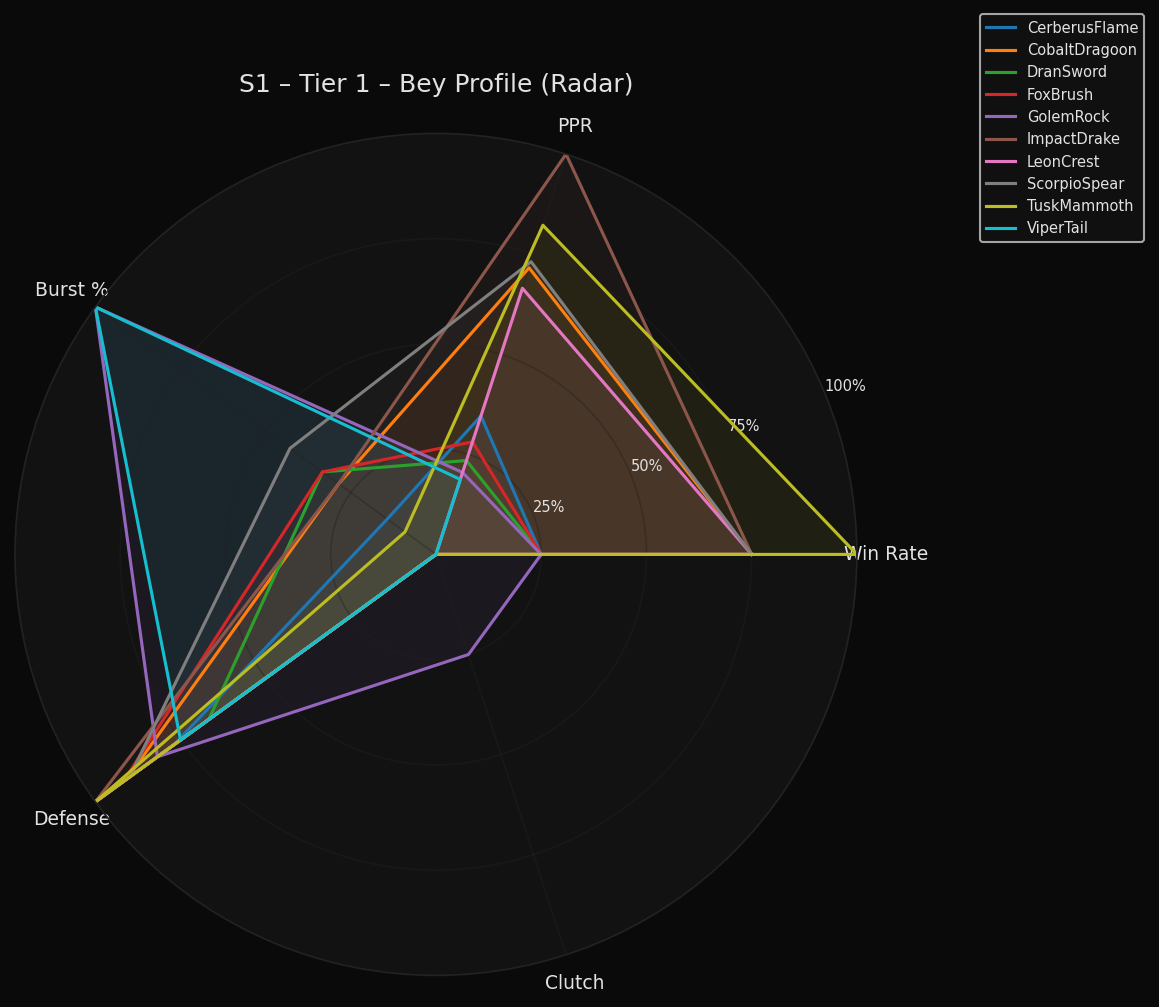
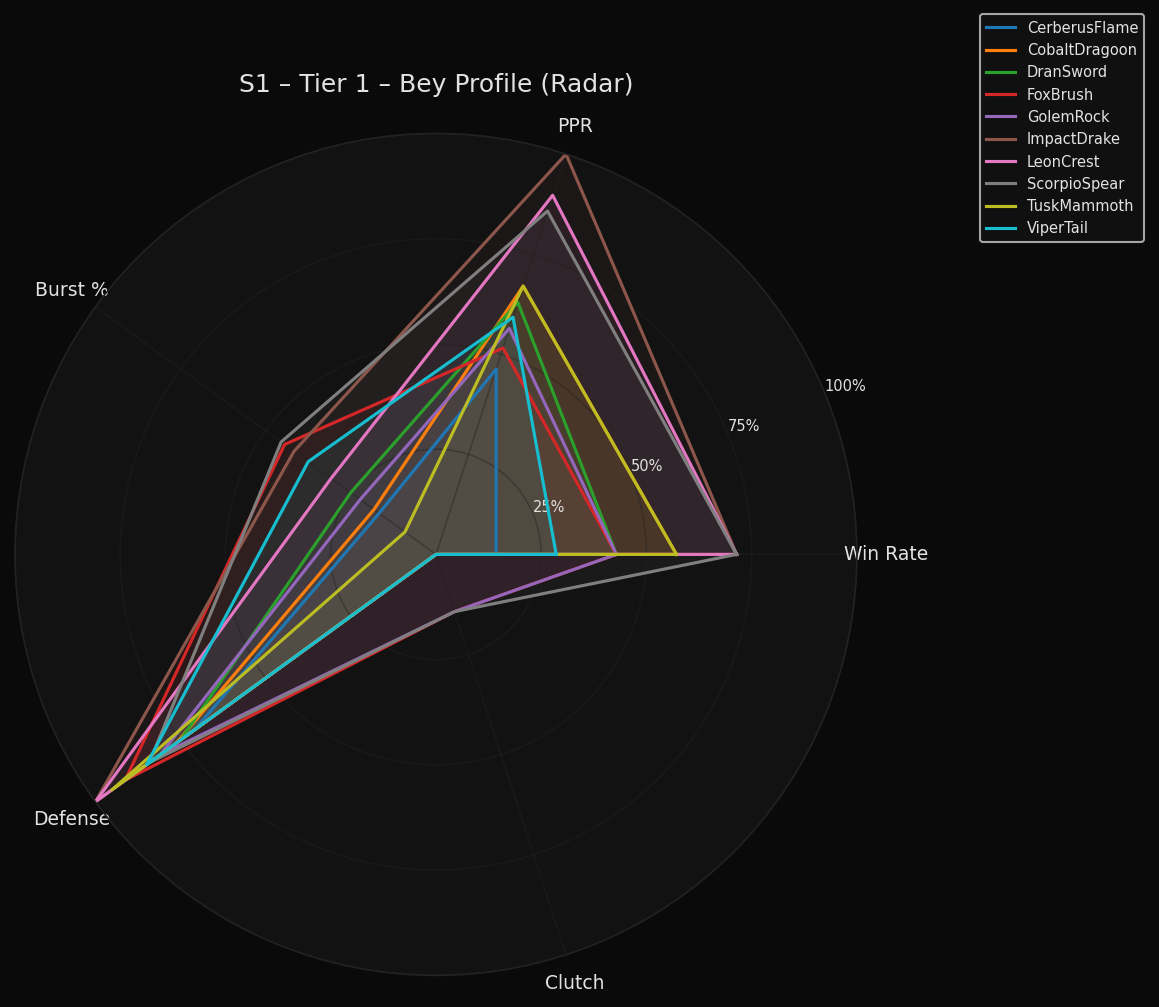
feat: add combined all-tiers plots and All Tiers tab in frontend

Changed region(s): [[0.0621, 0.1539, 0.7455, 0.8004], [0.6523, 0.4618, 0.6833, 0.4926]]

diff --git a/docs/season-stats.html b/docs/season-stats.html
@@ -936,9 +936,12 @@
     const PLOT_TITLES = {
         'bump_chart': '📊 Position Progression (Bump Chart)',
         'cumulative_points': '📈 Cumulative Season Points',
+        'finish_distribution_all_tiers': '🎯 Finish Type Distribution (All Tiers)',
         'finish_distribution': '🎯 Finish Type Distribution',
         'h2h_matrix': '🔥 Head-to-Head Win Rate Matrix',
+        'points_per_match_all_tiers': '📦 Points Per Match Distribution (All Tiers)',
         'points_per_match': '📦 Points Per Match Distribution',
+        'radar_chart_all_tiers': '🕸 Bey Profile Radar (All Tiers)',
         'radar_chart': '🕸 Bey Profile (Radar Chart)',
     };
 
@@ -978,10 +981,13 @@
                 return;
             }
 
-            // Build tier tabs
-            tierSelector.innerHTML = tiers.map((t, i) => `
+            // Build tier tabs (individual tiers + "All Tiers" combined tab)
+            const allTabs = tiers.map((t, i) => `
                 <button class="tier-tab ${i === 0 ? 'active' : ''}" data-tier="${t}">Tier ${t}</button>
-            `).join('');
+            `).join('') + (plotsManifest.combined
+                ? `<button class="tier-tab" data-tier="combined">🌐 All Tiers</button>`
+                : '');
+            tierSelector.innerHTML = allTabs;
 
             tierSelector.querySelectorAll('.tier-tab').forEach(btn => {
                 btn.addEventListener('click', () => {
@@ -1007,7 +1013,9 @@
         currentTier = tier;
         const plotsGrid = document.getElementById('plotsGrid');
         const dark = isDarkMode();
-        const tierData = plotsManifest && plotsManifest.tiers[tier];
+        const tierData = plotsManifest && (
+            tier === 'combined' ? plotsManifest.combined : plotsManifest.tiers[tier]
+        );
 
         if (!tierData) {
             plotsGrid.innerHTML = '<div class="plots-error">No plots available for this tier.</div>';
@@ -1015,7 +1023,9 @@
         }
 
         const plots = dark ? tierData.dark_plots : tierData.plots;
-        const basePath = `plots/season/${season}/tier${tier}/`;
+        const basePath = tier === 'combined'
+            ? `plots/season/${season}/combined/`
+            : `plots/season/${season}/tier${tier}/`;
 
         plotsGrid.innerHTML = plots.map(filename => {
             const title = getPlotTitle(filename);

diff --git a/src/visualization/season_plots.py b/src/visualization/season_plots.py
@@ -510,6 +510,233 @@ def plot_radar_chart(season_stats_json, tier_beys, tier, outdir, season_id, dark
 
 
 # ---------------------------------------------------------------------------
+# Combined (all-tiers) plots
+# ---------------------------------------------------------------------------
+
+def plot_combined_finish_distribution(season_matches, season_rounds, tiers, outdir, season_id, dark_mode=False):
+    """
+    Stacked bar chart of finish-type wins for every bey across all tiers.
+    Beys are grouped by tier with vertical dividers.
+    """
+    if dark_mode:
+        configure_dark_mode()
+    else:
+        configure_light_mode()
+
+    finish_types = list(FINISH_COLORS.keys())
+
+    all_beys = []
+    tier_boundaries = []  # x-index where each tier starts
+    bey_tier_labels = []
+
+    for tier in sorted(tiers):
+        tier_int = int(tier)
+        t_beys = sorted(
+            set(season_matches[season_matches["Tier"] == tier]["BeyA"])
+            | set(season_matches[season_matches["Tier"] == tier]["BeyB"])
+        )
+        tier_boundaries.append((len(all_beys), tier_int, len(t_beys)))
+        all_beys.extend(t_beys)
+        bey_tier_labels.extend([tier_int] * len(t_beys))
+
+    if not all_beys:
+        return
+
+    all_match_ids = set(season_matches["MatchID"])
+    all_rounds = season_rounds[season_rounds["match_id"].isin(all_match_ids)].copy()
+
+    data: dict = {ft: [] for ft in finish_types}
+    for bey in all_beys:
+        bey_wins = all_rounds[all_rounds["winner"] == bey]
+        for ft in finish_types:
+            data[ft].append(len(bey_wins[bey_wins["finish_type"] == ft]))
+
+    fig, ax = plt.subplots(figsize=(max(10, len(all_beys) * 0.75), 6))
+
+    bottom = np.zeros(len(all_beys))
+    x = np.arange(len(all_beys))
+    for ft in finish_types:
+        values = np.array(data[ft])
+        ax.bar(x, values, bottom=bottom, label=ft.capitalize(),
+               color=FINISH_COLORS[ft], alpha=0.85)
+        bottom += values
+
+    # Tier dividers and labels
+    for start_idx, tier_int, size in tier_boundaries:
+        if start_idx > 0:
+            ax.axvline(start_idx - 0.5, color="gray", linewidth=1.2, linestyle="--", alpha=0.6)
+        mid = start_idx + size / 2 - 0.5
+        ax.text(mid, ax.get_ylim()[1] * 0.97, f"Tier {tier_int}",
+                ha="center", va="top", fontsize=9, fontweight="bold", alpha=0.7)
+
+    ax.set_xlabel("Bey")
+    ax.set_ylabel("Round Wins")
+    ax.set_title(f"{season_id} – All Tiers – Finish Type Distribution")
+    ax.set_xticks(x)
+    ax.set_xticklabels(all_beys, rotation=40, ha="right", fontsize=7)
+    ax.legend(loc="upper right", fontsize=8)
+    ax.grid(True, axis="y", alpha=0.3)
+    plt.tight_layout()
+
+    light_p = os.path.join(outdir, "finish_distribution_all_tiers.png")
+    dark_p = os.path.join(outdir, "dark", "finish_distribution_all_tiers_dark.png")
+    save_fig(fig, light_p, dark_p, dark_mode)
+
+
+def plot_combined_points_per_match(season_matches, tiers, outdir, season_id, dark_mode=False):
+    """
+    Boxplot of points-per-match for every bey across all tiers, colored by tier.
+    Beys are ordered by tier then by median points descending within each tier.
+    """
+    if dark_mode:
+        configure_dark_mode()
+    else:
+        configure_light_mode()
+
+    records = []
+    for tier in sorted(tiers):
+        tier_int = int(tier)
+        tier_matches = season_matches[season_matches["Tier"] == tier]
+        for _, row in tier_matches.iterrows():
+            records.append({"bey": row["BeyA"], "points": int(row["ScoreA"]), "tier": f"Tier {tier_int}"})
+            records.append({"bey": row["BeyB"], "points": int(row["ScoreB"]), "tier": f"Tier {tier_int}"})
+
+    if not records:
+        return
+
+    df = pd.DataFrame(records)
+
+    # Order: by tier, then by median descending within tier
+    order = []
+    tier_boundaries = []
+    for tier in sorted(tiers):
+        tier_int = int(tier)
+        label = f"Tier {tier_int}"
+        tier_df = df[df["tier"] == label]
+        tier_order = tier_df.groupby("bey")["points"].median().sort_values(ascending=False).index.tolist()
+        tier_boundaries.append((len(order), tier_int, len(tier_order)))
+        order.extend(tier_order)
+
+    palette = sns.color_palette("Set2", len(tiers))
+    tier_colors = {f"Tier {int(t)}": palette[i] for i, t in enumerate(sorted(tiers))}
+    # Build a bey→tier-label lookup to avoid repeated DataFrame filtering
+    bey_to_tier_label = {r["bey"]: r["tier"] for r in records}
+    bey_colors = [tier_colors[bey_to_tier_label[b]] for b in order]
+
+    fig, ax = plt.subplots(figsize=(max(10, len(order) * 0.85), 6))
+    sns.boxplot(data=df, x="bey", y="points", order=order, hue="bey",
+                legend=False, ax=ax, palette=bey_colors, linewidth=1.2)
+
+    # Tier dividers and labels
+    for start_idx, tier_int, size in tier_boundaries:
+        if start_idx > 0:
+            ax.axvline(start_idx - 0.5, color="gray", linewidth=1.2, linestyle="--", alpha=0.6)
+        mid = start_idx + size / 2 - 0.5
+        ax.text(mid, ax.get_ylim()[1] * 0.97, f"Tier {tier_int}",
+                ha="center", va="top", fontsize=9, fontweight="bold", alpha=0.7)
+
+    plt.xticks(rotation=40, ha="right", fontsize=7)
+    ax.set_xlabel("Bey")
+    ax.set_ylabel("Points Per Match")
+    ax.set_title(f"{season_id} – All Tiers – Points Per Match Distribution")
+    ax.grid(True, axis="y", alpha=0.3)
+    plt.tight_layout()
+
+    light_p = os.path.join(outdir, "points_per_match_all_tiers.png")
+    dark_p = os.path.join(outdir, "dark", "points_per_match_all_tiers_dark.png")
+    save_fig(fig, light_p, dark_p, dark_mode)
+
+
+def plot_combined_radar_chart(season_stats_json, all_beys_by_tier, outdir, season_id, dark_mode=False):
+    """
+    Radar chart showing all beys across all tiers on a single chart.
+    Each tier's beys are drawn with the same hue family to aid readability.
+    """
+    if dark_mode:
+        configure_dark_mode()
+    else:
+        configure_light_mode()
+
+    stats_dict = season_stats_json.get("statistics", {})
+    if not stats_dict:
+        return
+
+    metrics = [
+        ("match_win_rate", "Win Rate", 100.0),
+        ("points_per_round", "PPR", None),
+        ("burst_win_rate", "Burst %", 100.0),
+        ("defensive_stability_index", "Defense", 1.0),
+        ("clutch_win_rate", "Clutch", 100.0),
+    ]
+
+    # Flatten all beys from all tiers that have stats
+    flat_beys = []
+    bey_tier_map = {}
+    for tier, beys in sorted(all_beys_by_tier.items()):
+        for b in beys:
+            if b in stats_dict:
+                flat_beys.append(b)
+                bey_tier_map[b] = int(tier)
+
+    if not flat_beys:
+        return
+
+    # Collect raw values across all beys for normalisation
+    raw: dict = {key: [] for key, _, _ in metrics}
+    for bey in flat_beys:
+        s = stats_dict[bey]
+        for key, _, _ in metrics:
+            raw[key].append(float(s.get(key, 0)))
+
+    def normalise(values, max_val):
+        if max_val is not None:
+            return [v / max_val for v in values]
+        m = max(values) if values and max(values) > 0 else 1
+        return [v / m for v in values]
+
+    normalised: dict = {}
+    for key, _, max_val in metrics:
+        normalised[key] = normalise(raw[key], max_val)
+
+    num_metrics = len(metrics)
+    angles = np.linspace(0, 2 * np.pi, num_metrics, endpoint=False).tolist()
+    angles += angles[:1]
+
+    # Distinct tier colour palettes (one palette name per tier, cycling through options)
+    _palette_names = ["tab10", "Set1", "Dark2", "tab20"]
+    unique_tiers = sorted(set(bey_tier_map.values()))
+    tier_palettes = {
+        t: sns.color_palette(_palette_names[i % len(_palette_names)], 10)
+        for i, t in enumerate(unique_tiers)
+    }
+    tier_counts: dict = {t: 0 for t in unique_tiers}
+
+    fig, ax = plt.subplots(figsize=(9, 9), subplot_kw=dict(polar=True))
+
+    for i, bey in enumerate(flat_beys):
+        t = bey_tier_map[bey]
+        color = tier_palettes[t][tier_counts[t] % 10]
+        tier_counts[t] += 1
+        values = [normalised[key][i] for key, _, _ in metrics]
+        values += values[:1]
+        ax.plot(angles, values, linewidth=1.5, label=f"{bey} (T{t})", color=color)
+        ax.fill(angles, values, alpha=0.05, color=color)
+
+    ax.set_xticks(angles[:-1])
+    ax.set_xticklabels([label for _, label, _ in metrics], fontsize=9)
+    ax.set_ylim(0, 1)
+    ax.set_yticks([0.25, 0.5, 0.75, 1.0])
+    ax.set_yticklabels(["25%", "50%", "75%", "100%"], fontsize=7)
+    ax.set_title(f"{season_id} – All Tiers – Bey Profile (Radar)", pad=20)
+    ax.legend(loc="upper right", bbox_to_anchor=(1.5, 1.2), fontsize=6, ncol=2)
+    plt.tight_layout()
+
+    light_p = os.path.join(outdir, "radar_chart_all_tiers.png")
+    dark_p = os.path.join(outdir, "dark", "radar_chart_all_tiers_dark.png")
+    save_fig(fig, light_p, dark_p, dark_mode)
+
+
+# ---------------------------------------------------------------------------
 # Master runner
 # ---------------------------------------------------------------------------
 
@@ -536,6 +763,9 @@ def generate_season_plots():
 
         tiers = sorted(s_matches["Tier"].dropna().unique())
 
+        # Per-tier beys mapping used later for combined radar chart
+        all_beys_by_tier: dict = {}
+
         for tier in tiers:
             tier_int = int(tier)
             outdir = os.path.join(BASE_OUTPUT_DIR, season_id, f"tier{tier_int}")
@@ -545,6 +775,7 @@ def generate_season_plots():
                 set(s_matches[s_matches["Tier"] == tier]["BeyA"])
                 | set(s_matches[s_matches["Tier"] == tier]["BeyB"])
             )
+            all_beys_by_tier[tier] = tier_beys
 
             for dark_mode in [False, True]:
                 plot_bump_chart(s_matches, tier, outdir, season_id, dark_mode)
@@ -555,6 +786,15 @@ def generate_season_plots():
                 plot_radar_chart(season_stats_s, tier_beys, tier_int, outdir, season_id, dark_mode)
 
             print(f"  Season {season_id} – Tier {tier_int}: plots saved to {outdir}")
+
+        # Combined (all-tiers) plots
+        combined_outdir = os.path.join(BASE_OUTPUT_DIR, season_id, "combined")
+        ensure_dirs(combined_outdir)
+        for dark_mode in [False, True]:
+            plot_combined_finish_distribution(s_matches, s_rounds, tiers, combined_outdir, season_id, dark_mode)
+            plot_combined_points_per_match(s_matches, tiers, combined_outdir, season_id, dark_mode)
+            plot_combined_radar_chart(season_stats_s, all_beys_by_tier, combined_outdir, season_id, dark_mode)
+        print(f"  Season {season_id} – Combined (all tiers): plots saved to {combined_outdir}")
 
         # Write a JSON manifest so the frontend knows which plots are available
         manifest = {
@@ -579,6 +819,18 @@ def generate_season_plots():
                     ],
                 }
                 for t in sorted(s_matches["Tier"].dropna().unique())
+            },
+            "combined": {
+                "plots": [
+                    "finish_distribution_all_tiers.png",
+                    "points_per_match_all_tiers.png",
+                    "radar_chart_all_tiers.png",
+                ],
+                "dark_plots": [
+                    "dark/finish_distribution_all_tiers_dark.png",
+                    "dark/points_per_match_all_tiers_dark.png",
+                    "dark/radar_chart_all_tiers_dark.png",
+                ],
             },
         }
         manifest_dir = os.path.join(BASE_OUTPUT_DIR, season_id)

diff --git a/tests/test_season_plots.py b/tests/test_season_plots.py
@@ -241,3 +241,10 @@ class TestManifest:
         assert "dark_plots" in tier_data
         assert len(tier_data["plots"]) == 6
         assert len(tier_data["dark_plots"]) == 6
+        # Combined (all-tiers) section
+        assert "combined" in manifest
+        combined_data = manifest["combined"]
+        assert "plots" in combined_data
+        assert "dark_plots" in combined_data
+        assert len(combined_data["plots"]) == 3
+        assert len(combined_data["dark_plots"]) == 3
